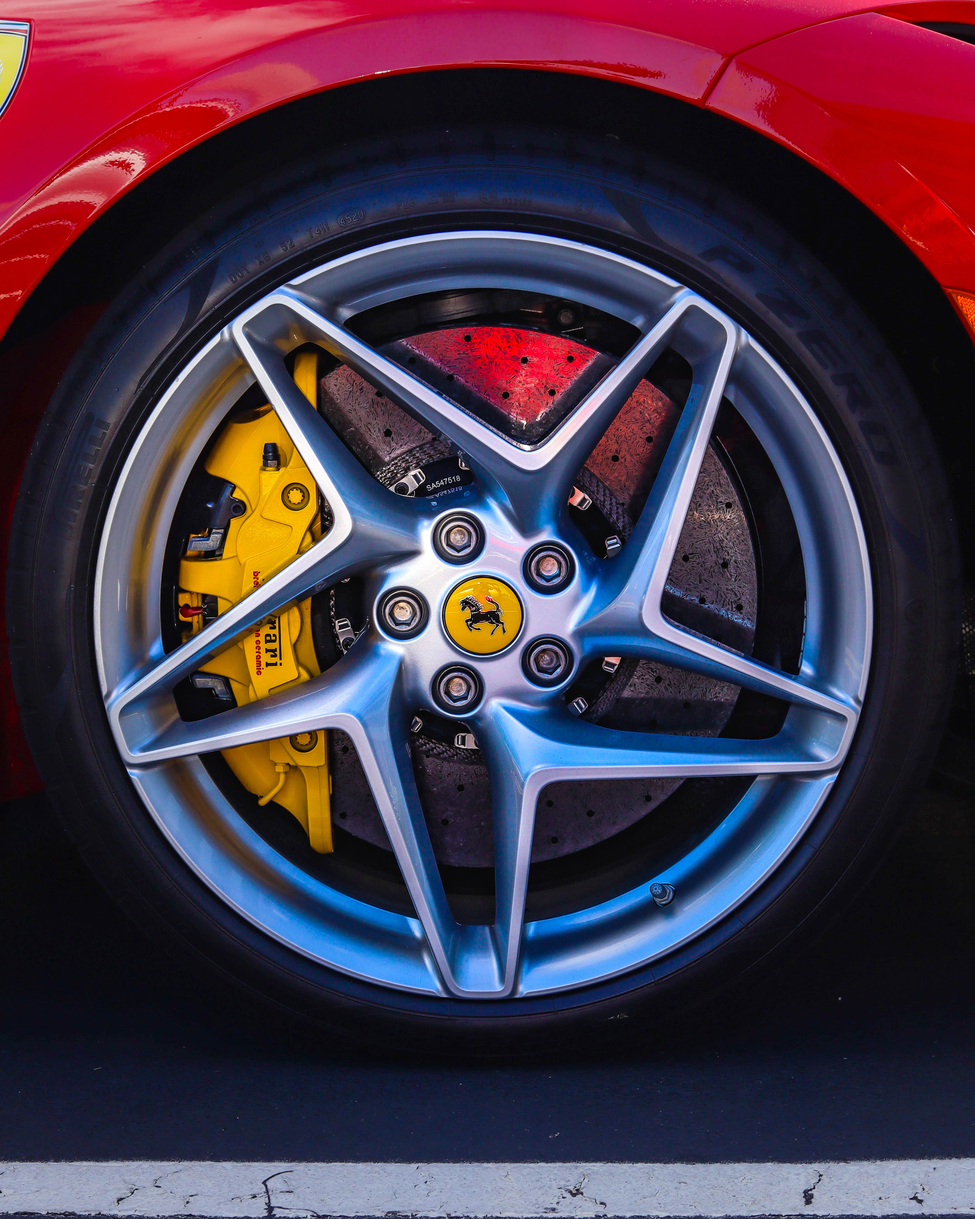
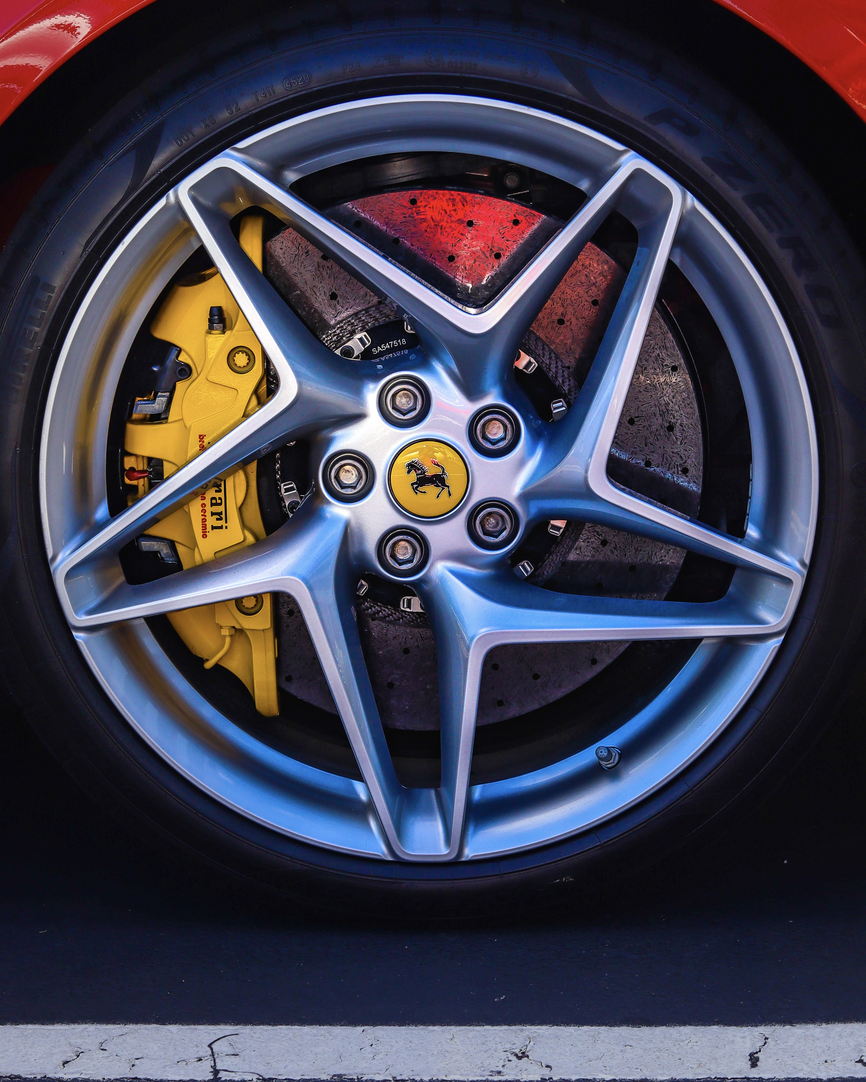
Re-exported full resolution images, fixed cropping, improved gallery sharpness and layout

diff --git a/styles.css b/styles.css
@@ -3,7 +3,7 @@ html, body {
 height: 100%;           /* ensures it covers the full viewport */
 margin: 0;
 padding: 0;
-background: linear-gradient(135deg, #ffe5d4, #ff9474, #fe6f65); 
+  background: radial-gradient(circle at top, #1a1a1a 0%, #0d0d0d 70%);
 font-family: Montserrat, sans-serif;
 color: #333;
 justify-content: center;   /* center horizontally */
@@ -15,17 +15,10 @@ body{
 display: block;
 }
 
-h1 {
-font-weight: 500;
-
-color:#333
-}
-
-h2, h3 {
-font-weight: 500;
-color: #555;
-padding:20px;
-font-size: 1.4rem;
+h1, h2, h3 {
+  font-weight: 500;
+  padding: 20px;
+  color: #818080;
 }
 
 p {
@@ -34,14 +27,25 @@ line-height: 1.6;
 color: #666;
 }
 
+.tagline {
+  font-size: 1.1rem;
+  letter-spacing: 5px;
+  text-transform: uppercase;
+  font-weight: 600;
+  opacity: 0.8;
+  margin-top: 8px;
+}
+
 .top-banner {
-margin-bottom: 30px;
+margin-bottom: 40px;
 }
 
 .top-banner h1 {
-font-size: 2rem;
-font-weight: 500;
-margin: 0;
+  font-size: 3rem;
+  font-weight: 600;
+  margin: 0;
+  letter-spacing: 1px;
+  color: #f5f5f5;
 }
 
 .top-banner p {
@@ -52,12 +56,12 @@ text-transform: uppercase;
 color: #777;
 }
 
-
 .app {
 max-width: 1000px;
 margin: 40px auto; /* centers horizontally */
 padding: 60px;
-background: rgba(255, 255, 255, 0.7);
+background: rgba(25, 25, 25, 0.9);
+color: #f0f0f0;
 border-radius: 50px;
 box-shadow: 0 8px 20px rgba(0,0,0,0.15);
 text-align: center;
@@ -68,6 +72,13 @@ min-height: 60vh; /* lets app grow and prevents flex alignment issues */
 
 section {
 margin-top: 60px;
+}
+
+section h3 {
+  font-size: 1.2rem;
+  letter-spacing: 2px;
+  text-transform: uppercase;
+  color: #aaa;
 }
 
 #contact a {
@@ -123,7 +134,7 @@ left: 25%; /* keep it centered */
 .gallery-grid {
 display: grid;
 grid-template-columns: repeat(3, 1fr);
-gap: 15px;
+gap: 10px;
 margin-top: 20px;
 }
 
@@ -150,20 +161,19 @@ min-height: auto;
 }
 
 .gallery-grid img {
-width: 100%;
-aspect-ratio: 4 / 3;   /* keeps uniform sizing */
-object-fit: cover;     /* keeps clean crop */
-border-radius: 8px;
-cursor: pointer;
-transition: transform 0.3s ease, box-shadow 0.3s ease;
-
-.gallery-grid div {
-overflow: hidden;
+  width: 100%;
+  height: 100%;
+  object-fit: cover;
+  display: block;
+  transition: transform 0.3s ease, box-shadow 0.3s ease;
+  will-change: transform;
+  backface-visibility: hidden;
 }
 
+
 .gallery-grid img:hover {
-transform: scale(1.04);
-box-shadow: 0 12px 30px rgba(0,0,0,0.35);
+  transform: scale(1.04);
+  box-shadow: 0 12px 30px rgba(0,0,0,0.35);
 }
 
 #lightbox {
@@ -198,10 +208,6 @@ color: #fff;
 text-align: center;
 margin-top: 15px;
 font-size: 18px;
-}
-
-#contact p {
-margin: 5px 0;
 }
 
 .contact-form {
@@ -250,7 +256,11 @@ margin-top: 10px;
 
 .social-links a {
 display: inline-block;
-margin: 5px 10px;
+margin: 0 10px;
+}
+
+.social-links p {
+margin-bottom: 5px;
 }
 
 .arrow {

diff --git a/index.html b/index.html
@@ -19,7 +19,7 @@
     <div class="app">
 <header class="top-banner">
     <h1>Corey Bates Jr</h1>
-    <p>Automotive Photography</p>
+    <h2 class="tagline">Automotive Photography</h2>
 </header>
     <nav>
         <a href="#gallery">Gallery</a>
@@ -31,15 +31,15 @@
     <h3>Gallery</h3>
 
     <div class="gallery-grid">
-    <img src="images/Buggati Chiron.jpg" data-full="images/Buggati Chiron.jpg" loading="lazy" alt="A Bugatti at Cars and Coffee">
-    <img src="images/F82 BMW M4 Front End Shot.jpg" data-full="images/F82 BMW M4 Front End Shot.jpg" loading="lazy" alt="F82 M4 in Japan Front End">
-    <img src="images/F82 BMW M4 Quarter Shot.jpg" data-full="images/F82 BMW M4 Quarter Shot.jpg" loading="lazy" alt="F82 M4 in Japan Headlight Shot">
-    <img src="images/Ferrari Interior Shot.jpg" data-full="images/Ferrari Interior Shot.jpg" loading="lazy" alt="Ferrari interior at Cars and Coffee">
-    <img src="images/Ferrari Wheel Shot.jpg" data-full="images/Ferrari Wheel Shot.jpg" loading="lazy" alt="Ferrari Wheel shot at Cars and Coffee">
-    <img src="images/GTR Front.jpg" data-full="images/GTR Front.jpg" loading="lazy" alt="Nismo GTR Front end in Japan">
-    <img src="images/GTR Rear Quarter.jpg" data-full="images/GTR Rear Quarter.jpg" loading="lazy" alt="Nismo GTR rear quarter in Japan">
-    <img src="images/Nissan 370z.jpg" data-full="images/Nissan 370z.jpg" loading="lazy" alt="370z at Cars and Coffee">
-    <img src="images/G82 711 Shot.png" data-full="images/G82 711 Shot.png" loading="lazy" alt="G82 M4 at 7/11">
+    <img src="images\Buggati Chiron.jpg" data-full="images/Buggati Chiron.jpg" loading="lazy" alt="A Bugatti at Cars and Coffee">
+    <img src="images\images\F82 BMW M4 Front End Shot.jpg.jpg" data-full="images/F82 BMW M4 Front End Shot.jpg" loading="lazy" alt="F82 M4 in Japan Front End">
+    <img src="images\F82 BMW M4 Quarter Shot.jpg" data-full="images/F82 BMW M4 Quarter Shot.jpg" loading="lazy" alt="F82 M4 in Japan Headlight Shot">
+    <img src="images\Ferrari Interior Shot.jpg" data-full="images/Ferrari Interior Shot.jpg" loading="lazy" alt="Ferrari interior at Cars and Coffee">
+    <img src="images\Ferrari Wheel Shot.jpg" data-full="images/Ferrari Wheel Shot.jpg" loading="lazy" alt="Ferrari Wheel shot at Cars and Coffee">
+    <img src="images\GTR Front.jpg" data-full="images/GTR Front.jpg" loading="lazy" alt="Nismo GTR Front end in Japan">
+    <img src="images\GTR Rear Quarter.jpg" data-full="images/GTR Rear Quarter.jpg" loading="lazy" alt="Nismo GTR rear quarter in Japan">
+    <img src="images\Nissan 370z.jpg" data-full="images/Nissan 370z.jpg" loading="lazy" alt="370z at Cars and Coffee">
+    <img src="images\G82 7 Eleven.jpg" data-full="images/G82 711 Shot.png" loading="lazy" alt="G82 M4 at 7/11">
 
     </div>
     </section>

diff --git a/scripts.js b/scripts.js
@@ -43,11 +43,6 @@ document.addEventListener("keydown", e => {
     if (e.key === "Escape") lightbox.style.display = "none";
 });
 
-contactForm.addEventListener('submit', function(e) {
-    e.preventDefault(); // prevents actual submission
-    alert("Thanks! Please DM me on Instagram for inquiries.");
-});
-
 // Replace with your actual EmailJS info
 const contactForm = document.getElementById('contact-form');
 
